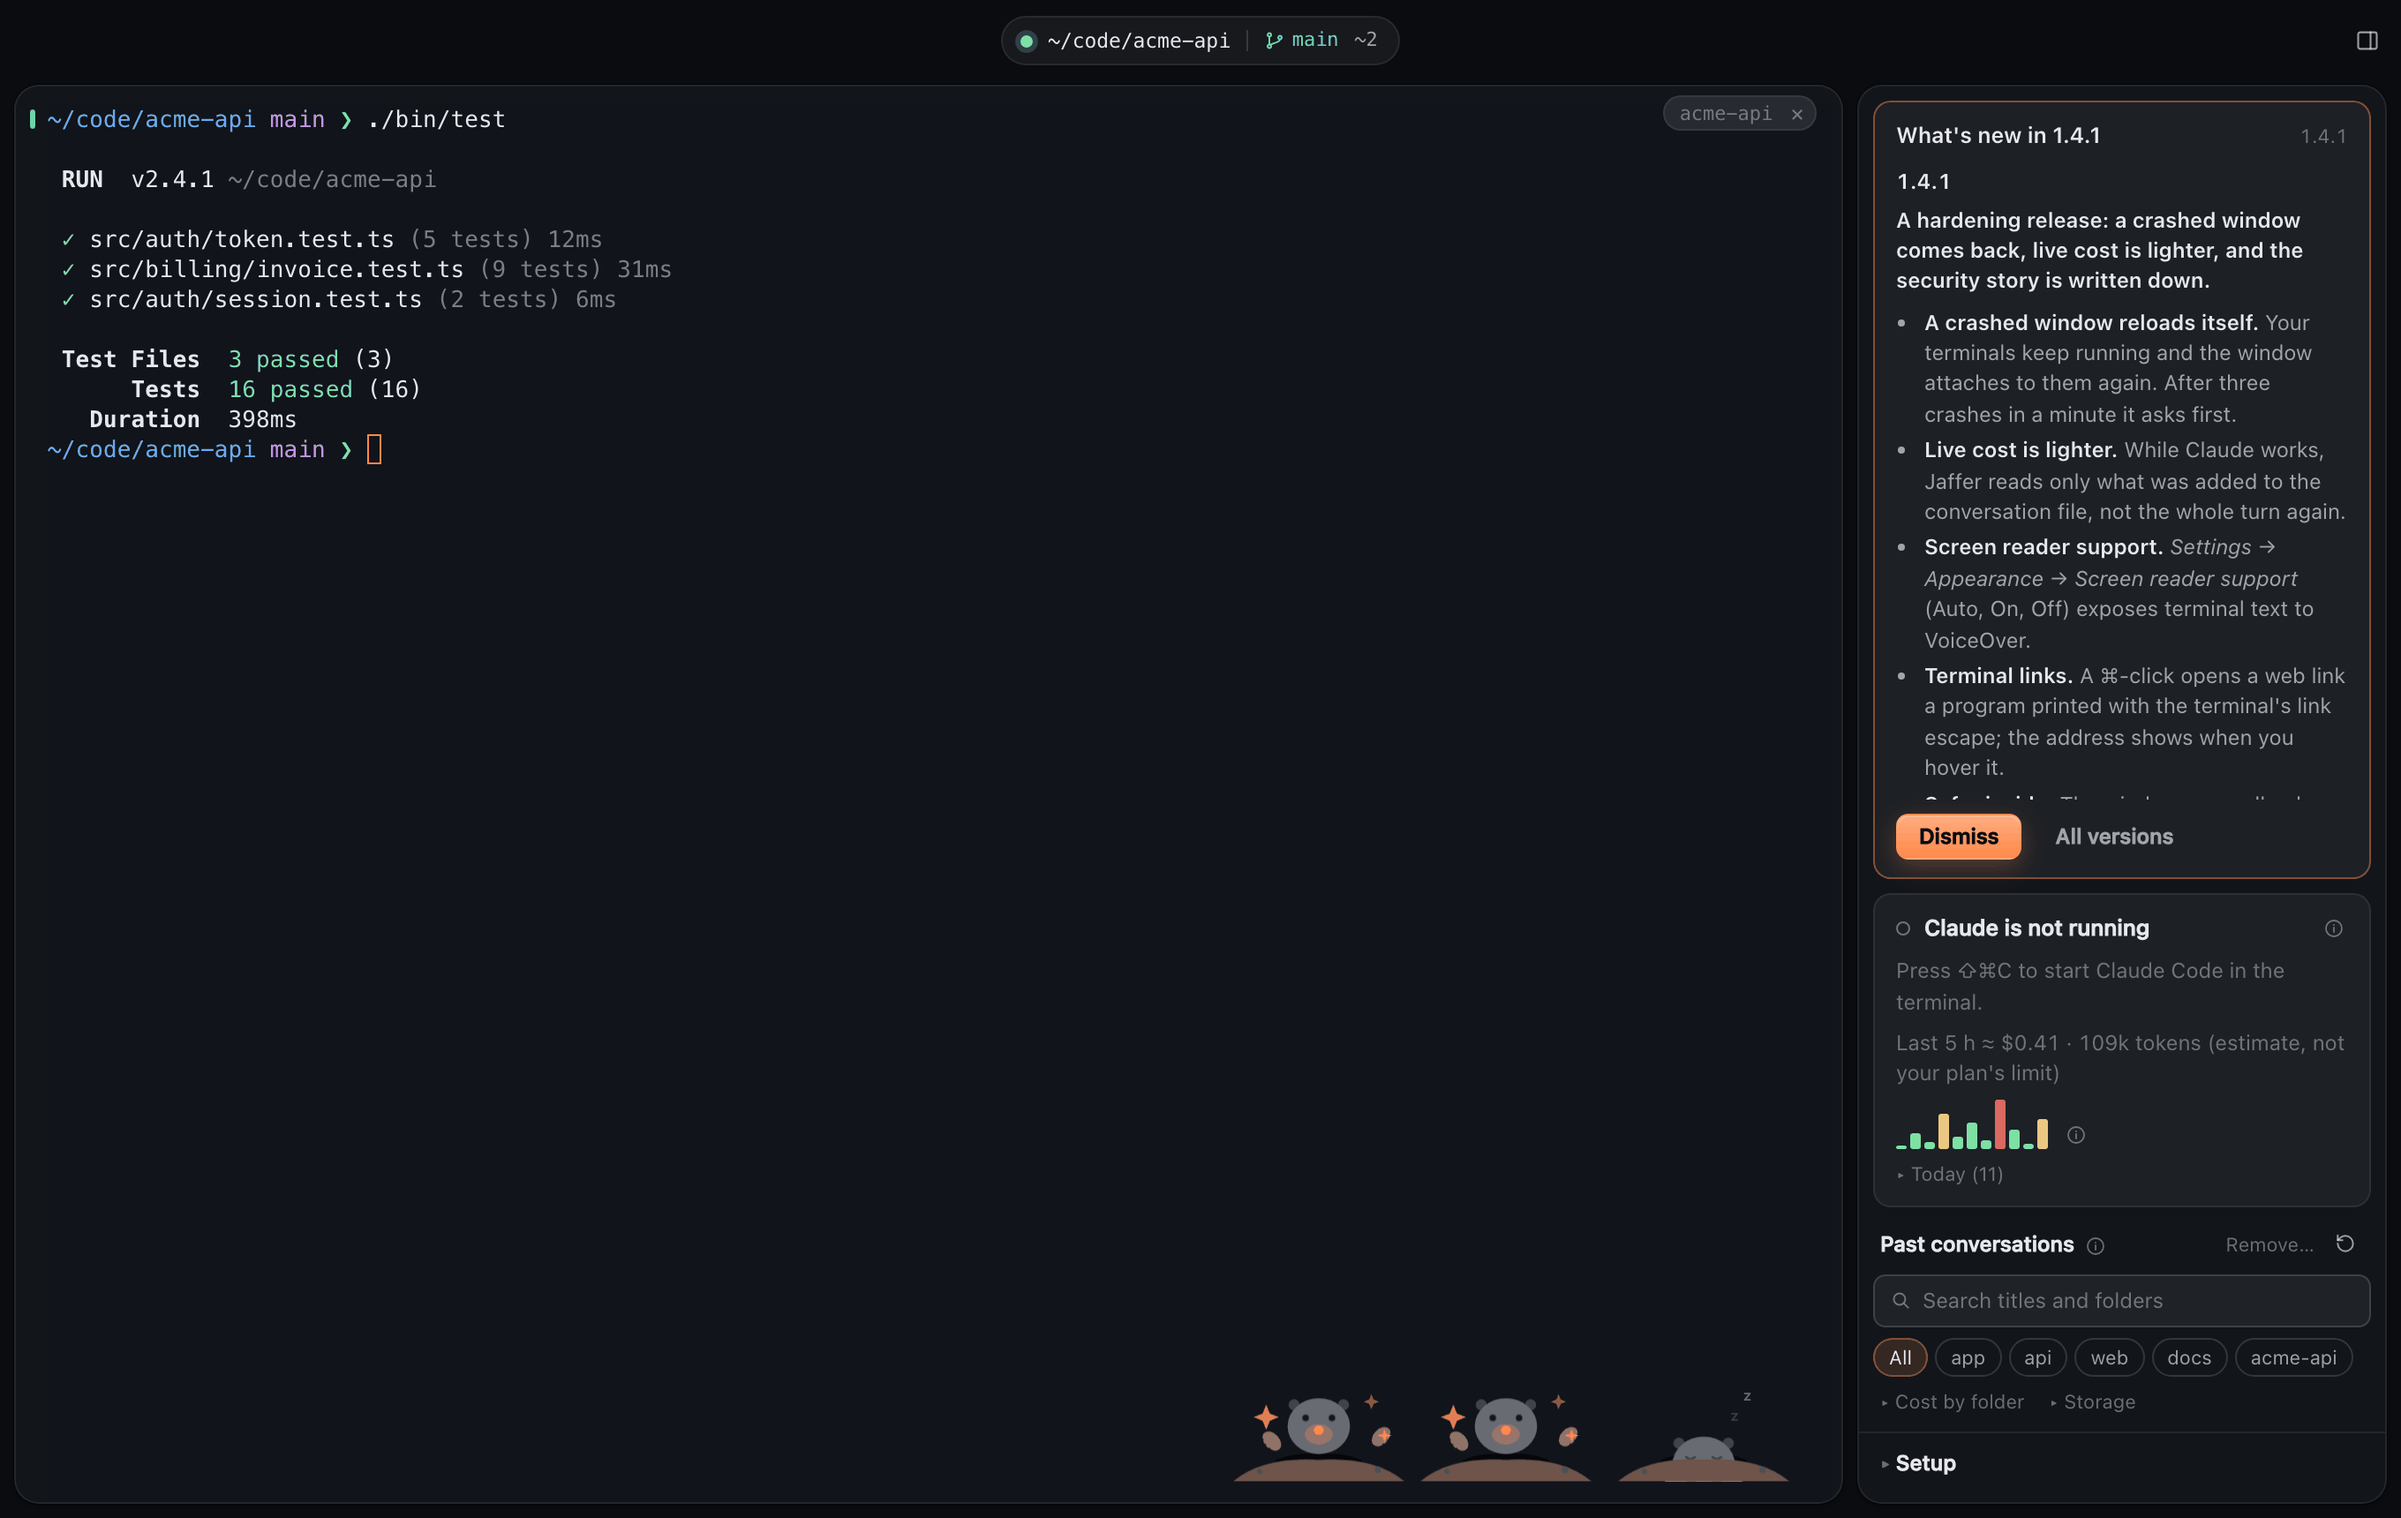
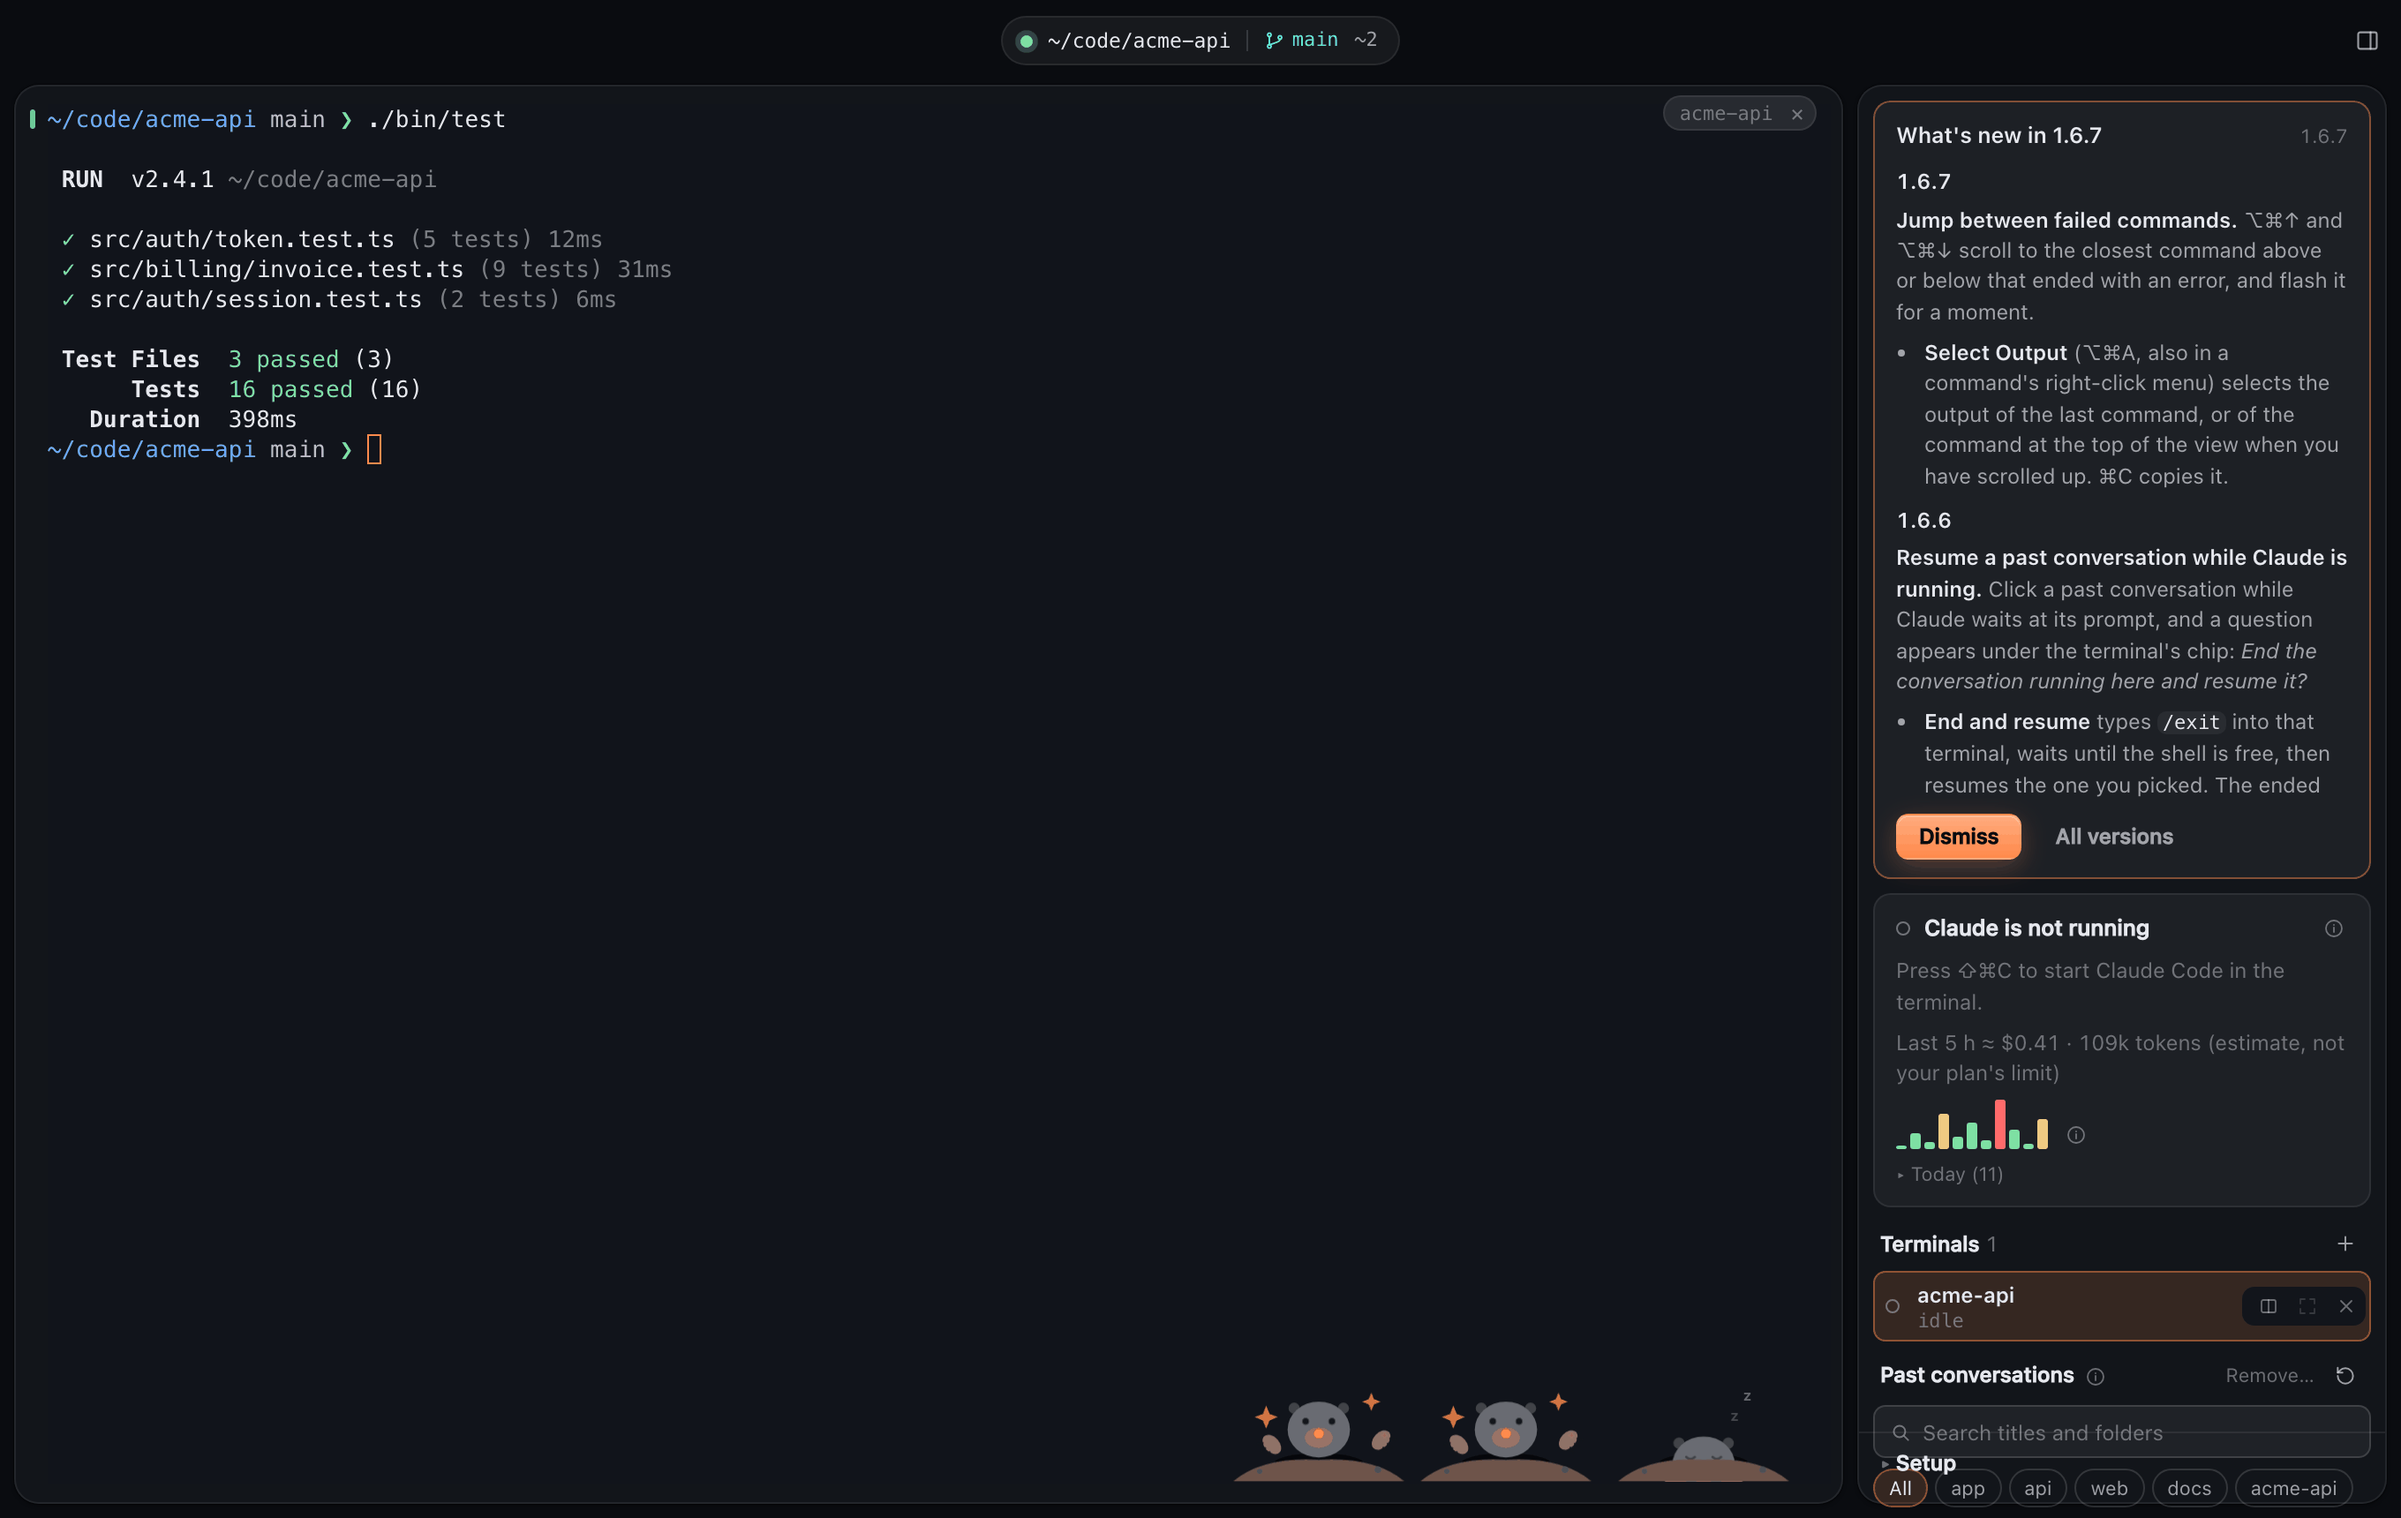
README: refresh the panel and split-terminal screenshots (Terminals section, a pet in every terminal)

diff --git a/README.md b/README.md
@@ -66,7 +66,7 @@ On first launch Jaffer asks what it may do: sign in to Claude or use a plain ter
 | ![Needs you](docs/screenshots/03-needs-you.png)<br><sub>**It tells you when it needs you.** The companion sits up with a `!`, the title bar names the tool and what it asks, and a notification follows if the window is behind.</sub> | ![Light](docs/screenshots/07-light.png)<br><sub>**Light theme**, same calm layout (one of eleven).</sub> |
 | ![Settings](docs/screenshots/12-claude-code-settings.png)<br><sub>**Claude Code settings:** sign-in help, the hooks, the finished notification, the cost switches, a daily budget, the tool strip and the turn summary.</sub> | ![Updates](docs/screenshots/13-updates.png)<br><sub>**Updates ask first**, because updating ends your terminal session.</sub> |
 | ![Welcome](docs/screenshots/01-welcome.png)<br><sub>**First launch.** Two switches, both yours, then a screen for what Jaffer may do; a plain terminal with no Claude at all is one click on the step before.</sub> | ![Command blocks](docs/screenshots/16-command-blocks.png)<br><sub>**Command blocks.** A mark beside each command (green, red or still running), one block lit under the pointer and a pinned line at the top.</sub> |
-| ![Split terminals](docs/screenshots/22-split-terminals.png)<br><sub>**Four terminals.** Each has a chip with its folder and a ✕; the dot on the last one says a Claude is working there.</sub> | ![Privacy and permissions](docs/screenshots/23-privacy.png)<br><sub>**Privacy and permissions.** One switch for each thing Jaffer may read or do, and what is always locked.</sub> |
+| ![Split terminals](docs/screenshots/22-split-terminals.png)<br><sub>**Four terminals.** Each has a chip with its folder and a ✕, and its own companion; the dot on the last one says a Claude is working there, and the *Terminals* section in the panel lists them.</sub> | ![Privacy and permissions](docs/screenshots/23-privacy.png)<br><sub>**Privacy and permissions.** One switch for each thing Jaffer may read or do, and what is always locked.</sub> |
 | ![Setup](docs/screenshots/24-setup-list.png)<br><sub>**Setup** in the side panel: MCP servers (after a click on *Check MCP servers*), skills, rules, plugins, subagents and hooks of the folder.</sub> | ![Tour](docs/screenshots/25-tour.png)<br><sub>**The tour.** A coach mark over the real window: here the Now card.</sub> |
 
 <p align="center">
@@ -74,11 +74,11 @@ On first launch Jaffer asks what it may do: sign in to Claude or use a plain ter
 </p>
 
 <p align="center">
-  <img src="docs/screenshots/19-side-panel.png" width="720" alt="The side panel at the right of the terminal while Claude works: the Now card (Claude is working, the tool Edit, 2m 30s, a progress bar, the cost so far, today's total against a budget, a context meter at 62% of 1M, how long Claude worked today, the last five hours' estimate, small bars for the last turns, two agents, this turn's reads, edits and shell calls and three edited files), and below it the Past conversations list with a search, folder chips, a Remove… button and a refresh button in its header, Cost by folder and Storage toggles and six conversations with their titles, grouped under Today, Yesterday and dates." />
+  <img src="docs/screenshots/19-side-panel.png" width="720" alt="The side panel at the right of the terminal while Claude works: the Now card (Claude is working, the tool Edit, 2m 30s, a progress bar, the cost so far, today's total against a budget, a context meter at 62% of 1M, how long Claude worked today, the last five hours' estimate, small bars for the last turns, two agents, this turn's reads, edits and shell calls and three edited files), then the Terminals section with one row for the terminal, and below it the Past conversations list with a search, folder chips, a Remove… button and a refresh button in its header, Cost by folder and Storage toggles and six conversations with their titles, grouped under Today, Yesterday and dates." />
 </p>
 
 <p align="center">
-  <img src="docs/screenshots/18-past-conversations.png" width="720" alt="The side panel with Claude not running: the Now card says so and shows today's estimated cost, the last five hours' estimate, and the Past conversations list below (with Remove… and refresh in its header) has the first of six conversations selected; each row has a bold title, the ~/ folder, the time, how long it lasted and an estimated cost." />
+  <img src="docs/screenshots/18-past-conversations.png" width="720" alt="The side panel with Claude not running: the Now card says so and shows today's estimated cost, the last five hours' estimate, then the Terminals section, and the Past conversations list below (with Remove… and refresh in its header) has the first of six conversations selected; each row has a bold title, the ~/ folder, the time, how long it lasted and an estimated cost." />
 </p>
 
 <p align="center">
